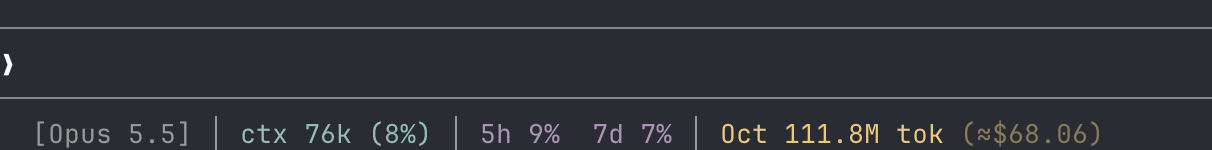
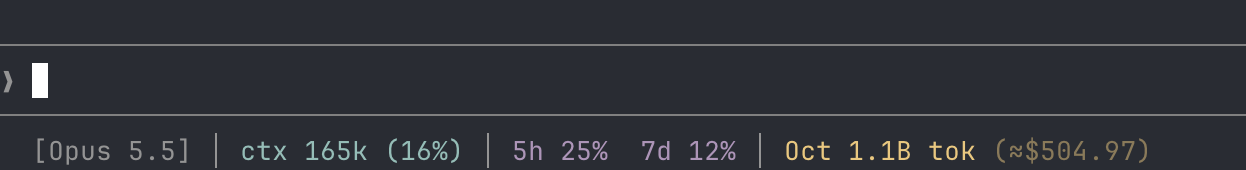
Refresh the screenshot and the social preview with current usage (#15)
The new screenshot shows a month of heavier use (1.1B tokens, 5h 25%,
7d 12%), and the social preview uses the same numbers so the two match.

diff --git a/scripts/social_preview.py b/scripts/social_preview.py
@@ -24,9 +24,9 @@ SANS = "/System/Library/Fonts/HelveticaNeue.ttc"
 
 # the status line, split into colored runs as tallyline prints it
 STATUS = [
-    ("[Opus 5.5]", GRAY), (" │ ", BORDER), ("ctx 120k (12%)", CYAN), (" │ ", BORDER),
-    ("5h 23%  7d 41%", MAGENTA), (" │ ", BORDER), ("Oct 22.1M tok ", YELLOW),
-    ("(≈$14.92)", DIM_YELLOW),
+    ("[Opus 5.5]", GRAY), (" │ ", BORDER), ("ctx 165k (16%)", CYAN), (" │ ", BORDER),
+    ("5h 25%  7d 12%", MAGENTA), (" │ ", BORDER), ("Oct 1.1B tok ", YELLOW),
+    ("(≈$504.97)", DIM_YELLOW),
 ]
 
 
